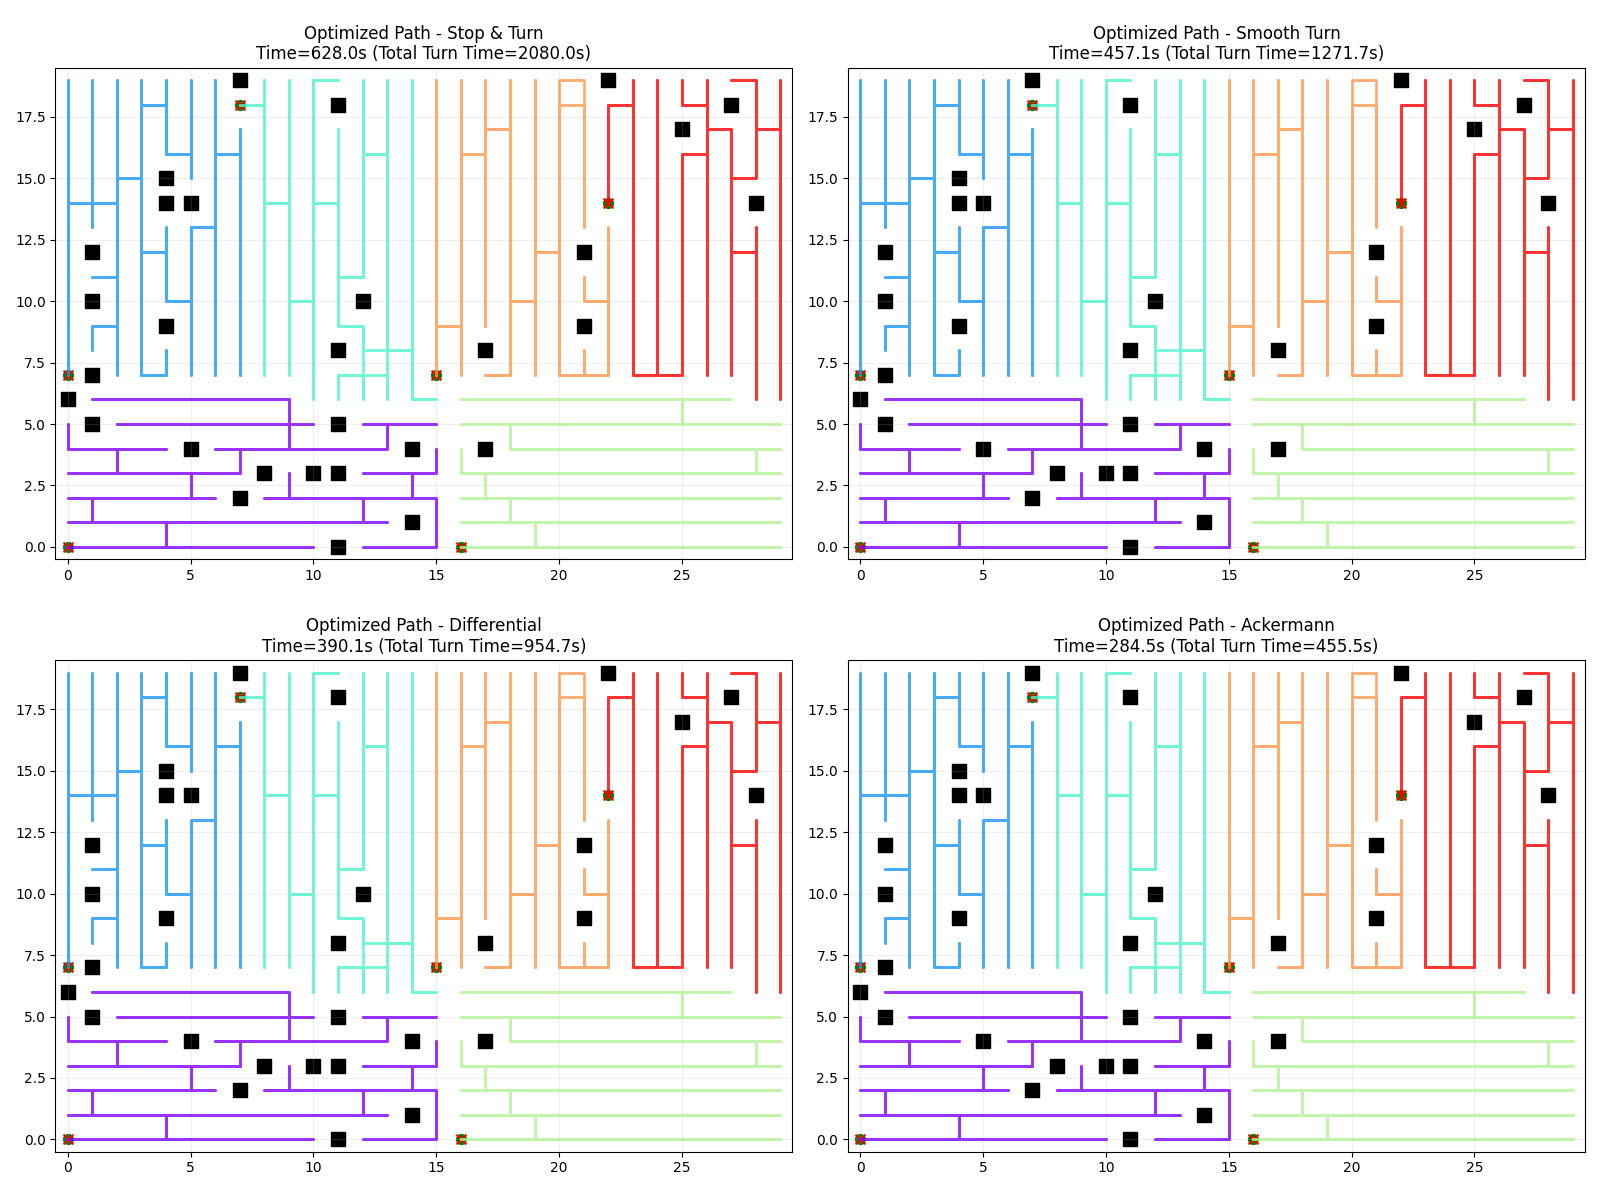
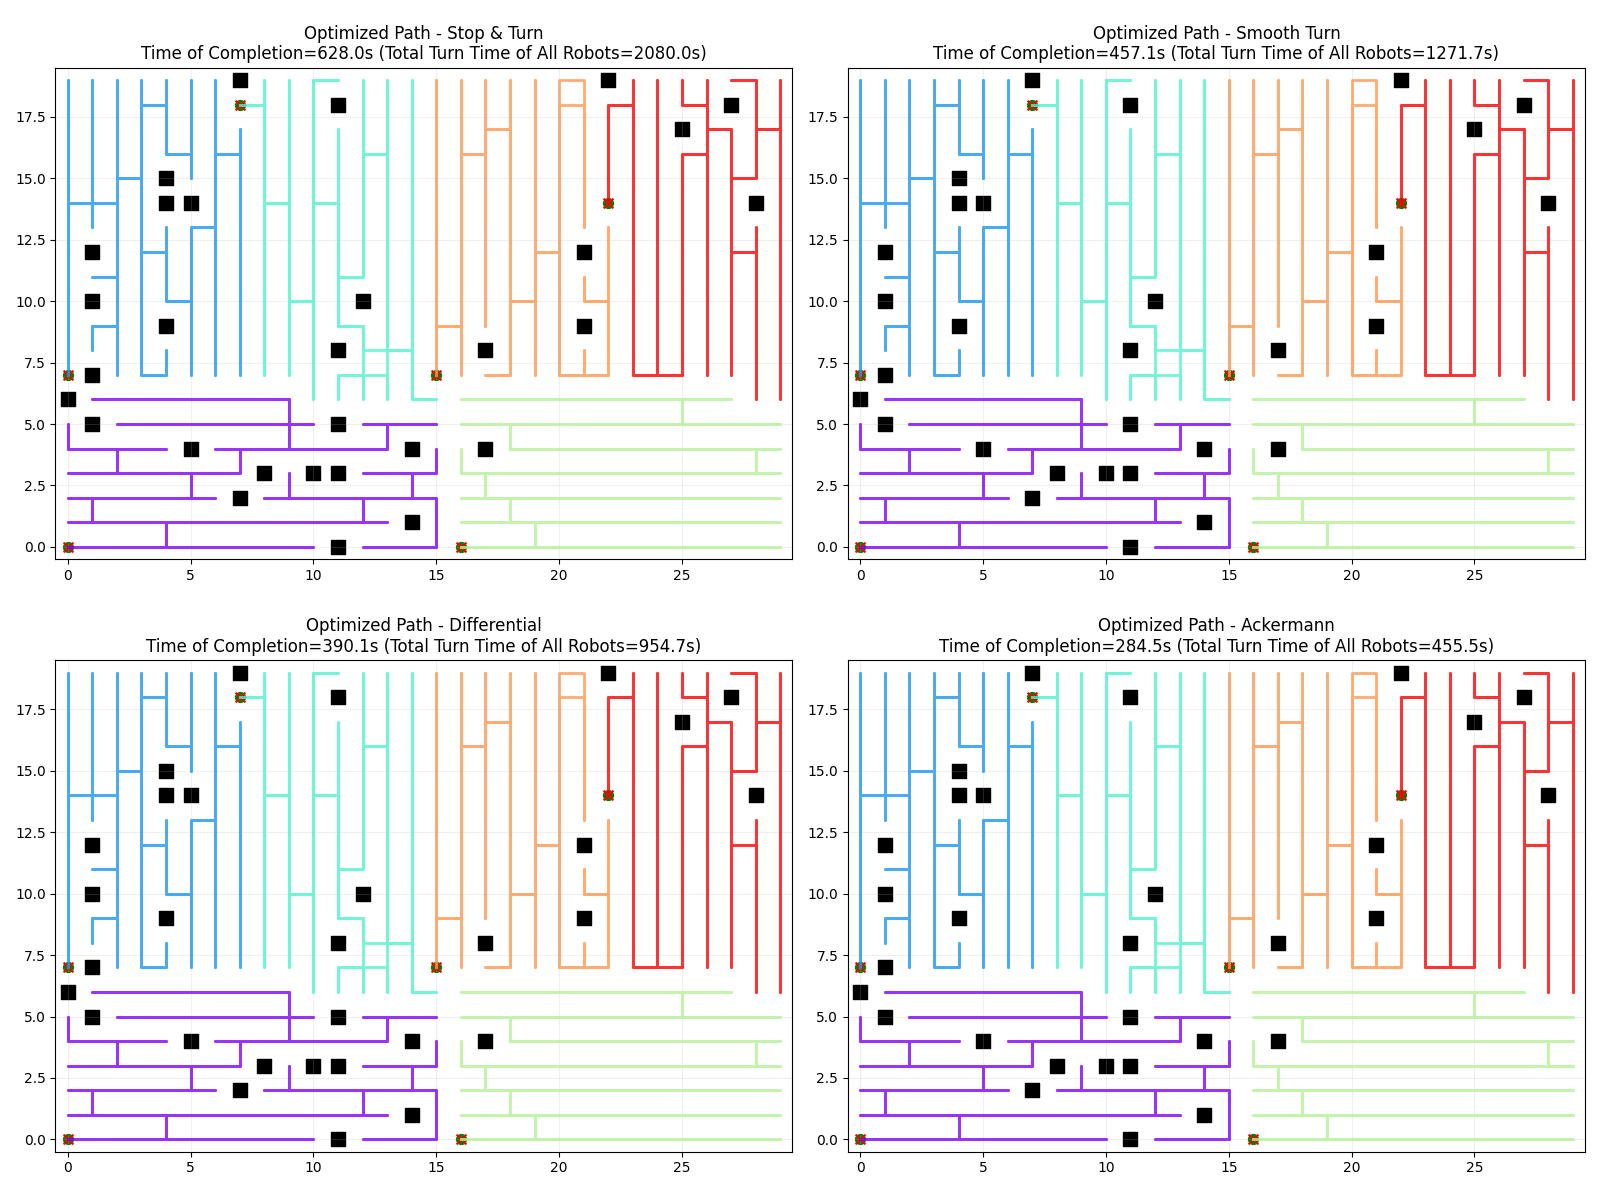
labels updated

diff --git a/optimized_mcpp.py b/optimized_mcpp.py
@@ -431,10 +431,10 @@ def run_comparison(width=30, height=20, k=4, obs_ratio=0.1):
     fig1, (ax1, ax2) = plt.subplots(1, 2, figsize=(16, 8))
     
     plot_paths(ax1, paths_base, width, height, obstacles, 
-               f"Baseline (Stop & Turn)\nM={makespan_base}, T={turns_base}\nTime={total_time_base:.1f}s (Total Turn Time={turn_time_base:.1f}s)")
+               f"Baseline (Stop & Turn)\nM={makespan_base}, T={turns_base}\nTime of Completion={total_time_base:.1f}s (Total Turn Time of All Robots={turn_time_base:.1f}s)")
     
     plot_paths(ax2, paths_opt, width, height, obstacles, 
-               f"Optimized ({best_opt_result['name']})\nM={makespan_opt}, T={turns_opt}\nTime={best_opt_result['total_time']:.1f}s (Total Turn Time={best_opt_result['turn_time']:.1f}s)")
+               f"Optimized ({best_opt_result['name']})\nM={makespan_opt}, T={turns_opt}\nTime of Completion={best_opt_result['total_time']:.1f}s (Total Turn Time of All Robots={best_opt_result['turn_time']:.1f}s)")
     
     plt.tight_layout()
     plt.savefig('mcpp_comparison.png')
@@ -446,7 +446,7 @@ def run_comparison(width=30, height=20, k=4, obs_ratio=0.1):
     
     for i, res in enumerate(opt_results):
         plot_paths(axes[i], paths_opt, width, height, obstacles,
-                   f"Optimized Path - {res['name']}\nTime={res['total_time']:.1f}s (Total Turn Time={res['turn_time']:.1f}s)")
+                   f"Optimized Path - {res['name']}\nTime of Completion={res['total_time']:.1f}s (Total Turn Time of All Robots={res['turn_time']:.1f}s)")
         
     plt.tight_layout()
     plt.savefig('all_turn_comparison.png')
